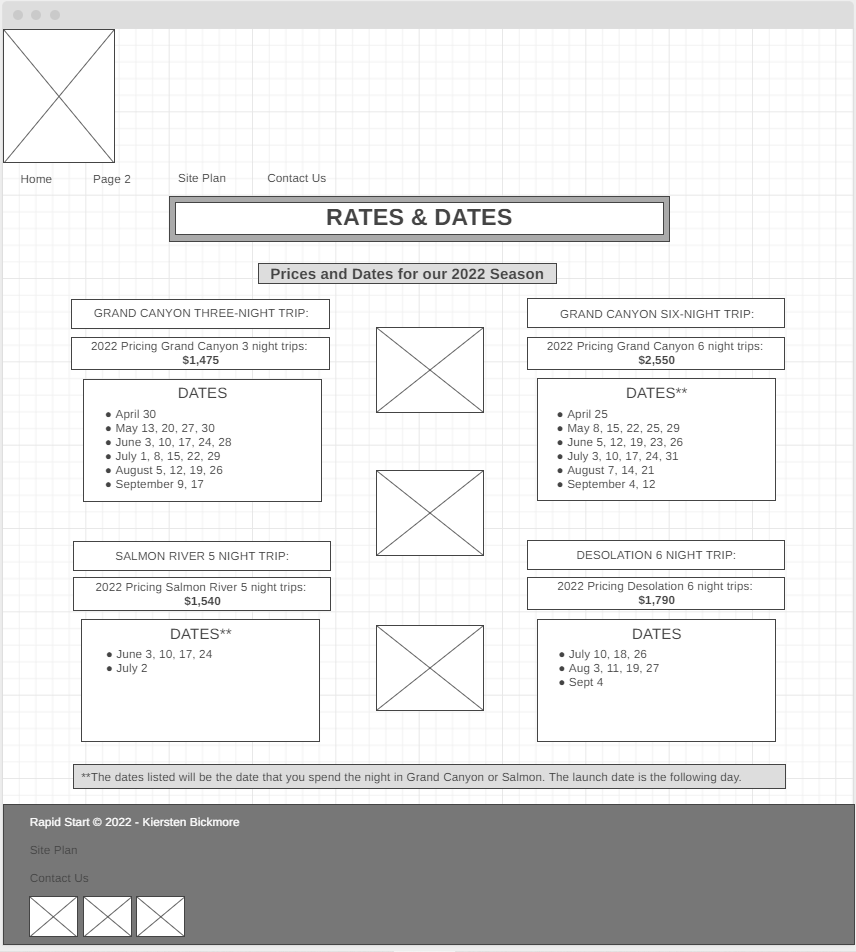
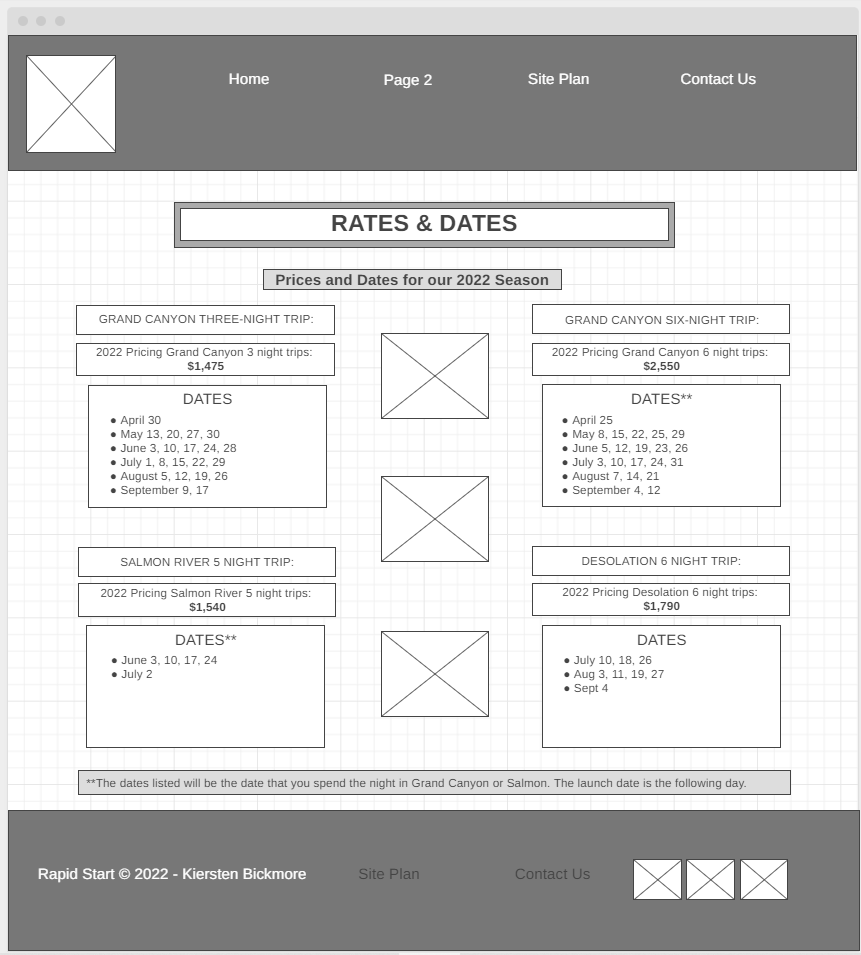
Finishing touches homepage

diff --git a/wwr/styles/style.css b/wwr/styles/style.css
@@ -12,6 +12,8 @@ nav a {
 }
 #hero-msg h1, #hero-msg h4 {
     text-align: center;
+    color: white;
+    text-shadow: -1px 1px 0 black;
 }
 .button-box {
     text-align: center;
@@ -32,6 +34,8 @@ body {
 }
 header {
     background-color: #7fc8f8;
+    display: grid;
+    grid-template-columns: 150px auto;
 }
 nav a:hover {
     background-color: #FFE45E;
@@ -54,11 +58,17 @@ nav a:hover {
     background-color: #FFE45E;
     line-height: 1.5em;
     padding: 35px;
+    grid-column: 6/10;
+    grid-row: 6/7;
+    box-shadow: 5px 5px 10px #6f7364;
 }
 footer {
     background-color: #1d2f6f;
     padding: 25px 50px;
     margin-top: 200px;
+    display: flex;
+    justify-content: space-around;
+    align-items: center;
 }
 .home-title {
     color: black;
@@ -106,6 +116,8 @@ h2 {
 }
 #logo_link {
     padding-top: 5px;
+    justify-self: center;
+    align-self: center;
 }
 footer .social img {
     padding-top: 15px;
@@ -115,7 +127,104 @@ footer .social img {
 }
 .card-img {
     border: 10px solid #FFE45E;
+    transition: transform .5s;
+    box-shadow: 5px 5px 10px #6f7364;
 }
 main section img {
     box-sizing: border-box;
+}
+nav {
+    display: flex;
+    justify-content: space-around;
+}
+#hero {
+    display: grid;
+    grid-template-columns: 1fr 3fr 1fr;
+    margin-top: -100px;
+}
+#hero-box {
+    grid-column: 1/4;
+    grid-row: 1/3;
+    z-index: -1;
+}
+#hero-msg {
+    grid-column: 2/3;
+    grid-row: 1/2;
+    margin-top: 100px;
+}
+main, .home-grid {
+    display: grid;
+    grid-template-columns: 1fr 1fr 1fr 1fr 1fr 1fr 1fr 1fr 1fr 1fr;
+}
+.card-img, .rapids {
+    width: 100%;
+}
+.view-card {
+    grid-column: 2/4;
+    grid-row: 2/3;
+}
+.intense-card {
+    grid-column: 5/7;
+    grid-row: 2/3;
+}
+.peaceful-card {
+    grid-column: 8/10;
+    grid-row: 2/3;
+}
+#background {
+    grid-column: 1/11;
+    grid-row: 4/9;
+}
+.rapids {
+    grid-column: 2/7;
+    grid-row: 5/8;
+    box-shadow: 5px 5px 10px #6f7364;
+}
+.card-img:hover {
+    opacity: .6;
+    transform: scale(1.1);
+}
+@media screen and (max-width: 900px) {
+    #hero, .home-grid {
+        display: block;
+        height: auto;
+    }
+    nav, footer {
+        flex-direction: column;
+    }
+    nav a {
+        display: block;
+        padding: 15px;
+    }
+    #hero {
+        margin-top: 0;
+    }
+    #hero-msg {
+        margin-top: 0;
+    }
+    #hero-msg h1 {
+        color: black;
+    }
+    #hero-msg h4 {
+        display: none;
+    }
+    .home-title {
+        font-size: 25px;
+        color: #6f7364;
+    }
+    .rivers-card, .camping-card, .rapids-card { 
+        margin: 50px auto;
+        width: 60%;
+    }
+    #background {
+        display: none;
+    }
+    .mountains, .msg {
+        width: 80%;
+        display: block;
+        margin: 0 auto;
+    }
+    footer {
+        margin-top: 25px;
+    }
 }

diff --git a/wwr/index.html b/wwr/index.html
@@ -11,7 +11,7 @@
     <div id="content">
     <header>
         <a id="logo_link" href="index.html">
-            <img src="images/raftinglogo.png" alt="Rapid Start Logo" width="200" height="300">
+            <img src="images/raftinglogo.png" alt="Rapid Start Logo" width="100px" height="125px">
         </a>
         <nav>
             <a href="index.html">Home</a>
